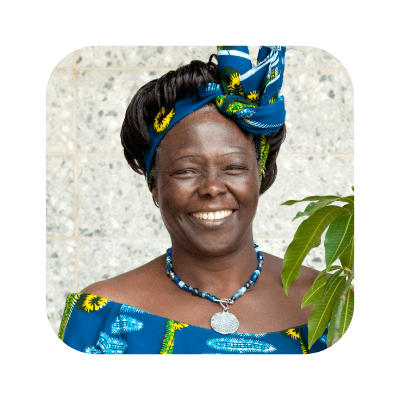
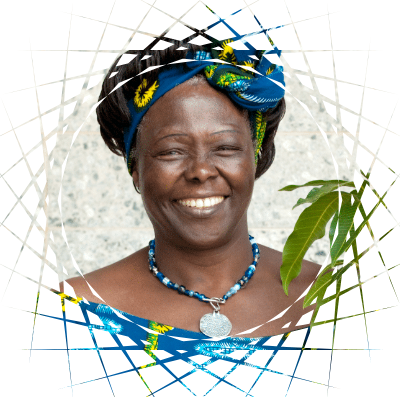
add new crop examples, cruvedcrop showcase container

diff --git a/pages/index.tsx b/pages/index.tsx
@@ -28,6 +28,12 @@ const DataVizCard = ({
   </div>
 )
 
+const CroppedImageSample = ({ imgSrc }: { imgSrc: string }) => (
+  <div className="m-1 h-[200px] w-[200px] overflow-hidden rounded-full border-2 border-solid border-gray-400">
+    <Image src={imgSrc} alt="img famous person" width="200" height="200" />
+  </div>
+)
+
 const Home: NextPage = () => {
   return (
     <BaseReadingLayout maxWidthClassName="max-w-screen-md">
@@ -100,47 +106,35 @@ const Home: NextPage = () => {
         </p>
       </div>
 
-      <h2 className="mb-2 text-2xl font-normal text-gray-600">Tiny projects</h2>
-      <Link href="curvedcrop">
-        <a>Cropping tool for Twitter</a>
-      </Link>
-      <p>Some images I cropped using the tool:</p>
-      <div className="flex flex-wrap justify-center rounded-xl border border-solid border-gray-100 bg-gray-200 p-2 shadow">
-        <img
-          className="m-1 h-[200px] w-[200px] rounded-full border-2 border-solid border-gray-100"
-          src="/images/ccdemo/curvedcrop1.png"
-          alt=""
-        />
-        <img
-          className="m-1 h-[200px] w-[200px] rounded-full border-2 border-solid border-gray-100"
-          src="/images/ccdemo/curvedcrop2.png"
-          alt=""
-        />
-        <img
-          className="m-1 h-[200px] w-[200px] rounded-full border-2 border-solid border-gray-100"
-          src="/images/ccdemo/curvedcrop3.png"
-          alt=""
-        />
-        <img
-          className="m-1 h-[200px] w-[200px] rounded-full border-2 border-solid border-gray-100"
-          src="/images/ccdemo/curvedcrop4.png"
-          alt=""
-        />
-        <img
-          className="m-1 h-[200px] w-[200px] rounded-full border-2 border-solid border-gray-100"
-          src="/images/ccdemo/curvedcrop5.png"
-          alt=""
-        />
-        <img
-          className="m-1 h-[200px] w-[200px] rounded-full border-2 border-solid border-gray-100"
-          src="/images/ccdemo/curvedcrop6.png"
-          alt=""
-        />
+      <h2 className="mb-4 pt-12 text-2xl font-normal text-gray-600">
+        Tiny projects
+      </h2>
+      <div className="rounded border border-solid border-gray-300 p-3">
+        <h3 className="m-0 text-xl font-normal">
+          <Link href="curvedcrop">
+            <a>Cropping tool for Twitter</a>
+          </Link>
+        </h3>
+        <p className="m-0 text-base leading-tight text-gray-500">
+          Create polygon-shaped crops, with curved corners and some fun patterns
+          created due to corner cases in my polygon curve code. Some images I
+          cropped using the tool:
+        </p>
+        <div className="mt-2 flex flex-wrap justify-center rounded border border-solid border-gray-100 bg-gray-200 p-2">
+          <CroppedImageSample imgSrc="/images/ccdemo/curvedcrop2.png" />
+          <CroppedImageSample imgSrc="/images/ccdemo/curvedcrop10.png" />
+          <CroppedImageSample imgSrc="/images/ccdemo/curvedcrop6.png" />
+          <CroppedImageSample imgSrc="/images/ccdemo/curvedcrop4.png" />
+          <CroppedImageSample imgSrc="/images/ccdemo/curvedcrop11.png" />
+          <CroppedImageSample imgSrc="/images/ccdemo/curvedcrop5.png" />
+        </div>
       </div>
-      <br />
-      <Link href="bullsandcows">
-        <a>Bulls and Cows: A guessing game</a>
-      </Link>
+
+      <h3 className=" text-xl font-normal">
+        <Link href="bullsandcows">
+          <a>Bulls and Cows: A guessing game</a>
+        </Link>
+      </h3>
       <br />
     </BaseReadingLayout>
   )

diff --git a/pages/curvedcrop.tsx b/pages/curvedcrop.tsx
@@ -8,10 +8,10 @@ import { zoom } from 'd3-zoom'
 
 const svgSide = 400
 const defaultImage = '/images/egg.jpg'
-const sideCountLimits = { min: 3, max: 10 }
+const sideCountLimits = { min: 3, max: 50 }
 const circumRadiusLimits = { min: 0, max: 500 }
 const rotateLimits = { min: 0, max: 360 }
-const borderRadiusLimits = { min: 0, max: 500 }
+const borderRadiusLimits = { min: 0, max: 1800 }
 
 const CurvedCrop: NextPage = () => {
   const [sideCount, setSideCount] = useState(6)
